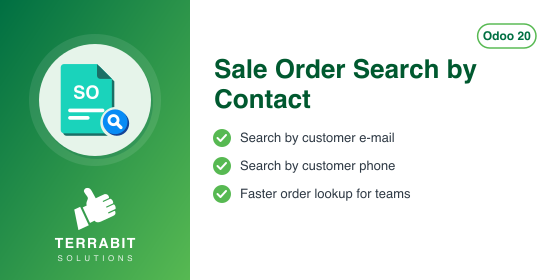
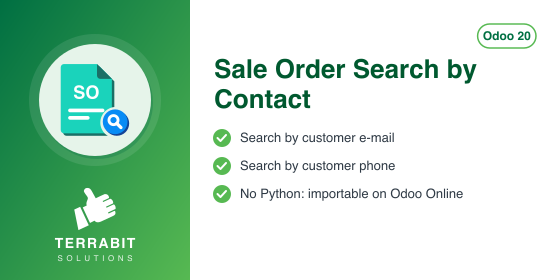
[IMP] deltatech_saleorder_search: data-only, importable on Odoo Online
Forward-port of dhongu/deltatech#4063 (19.0).

- removed the empty __init__.py and the Python test (tests/): Odoo Apps
  treats any .py file as Python code (same as deltatech_list_view, #4061);
  name, summary, banner and description say the module is importable on
  Odoo Online; version 20.0.1.1.0
- fixed: picking a contact from the expanded E-mail/Phone criterion
  returned an empty list; both criteria now search on the name field
  (still present in sale.view_sales_order_filter on Odoo 20)
- consultant sheet, USAGE.md and RO/EN screenshots taken from 19.0;
  banner regenerated (Odoo 20 label), index.html with tb-gen-index
- oca-checks-odoo-module excludes the module

Tested on Odoo 20: clean install, criteria on name with the same
filter_domain, search by e-mail/phone fragment finds the order.

Assisted-by: Claude Opus 5.5

Changed region(s): [[0.425, 0.6571, 0.85, 0.7143]]

diff --git a/deltatech_saleorder_search/static/description/index.html b/deltatech_saleorder_search/static/description/index.html
@@ -5,11 +5,11 @@
     <span class="d-inline-block rounded-4 p-2 flex-shrink-0 my-2" style="background-color:#ffffff;margin-right:24px;"><img src="icon.png" alt="Sale Order Search by Contact" style="width:80px;height:80px;border:none;"/></span>
     <div class="flex-grow-1 my-2" style="width:320px;min-width:0;margin-right:24px;">
       <h1 class="fw-bold mb-2" style="color:#ffffff;font-size:36px;line-height:1.1;letter-spacing:-0.5px;border:none;">Sale Order Search by Contact</h1>
-      <p class="mb-3" style="font-size:18px;color:#cdeccf;line-height:1.45;">Find orders instantly by e-mail or phone</p>
+      <p class="mb-3" style="font-size:18px;color:#cdeccf;line-height:1.45;">Find orders by e-mail or phone, also on Odoo Online</p>
       <div>
         <span class="d-inline-block rounded-pill fw-bold me-2 mb-2" style="background-color:#ffffff;border:1px solid #ffffff;color:#006F42;padding:6px 14px;font-size:12px;">Odoo 20.0</span>
         <span class="d-inline-block rounded-pill fw-semibold me-2 mb-2" style="border:1px solid #8fd1ad;color:#ffffff;padding:6px 14px;font-size:12px;">Sale</span>
-        <span class="d-inline-block rounded-pill fw-semibold me-2 mb-2" style="border:1px solid #8fd1ad;color:#ffffff;padding:6px 14px;font-size:12px;">Odoo.sh &bull; On-premise</span>
+        <span class="d-inline-block rounded-pill fw-semibold me-2 mb-2" style="border:1px solid #8fd1ad;color:#ffffff;padding:6px 14px;font-size:12px;">Odoo Online &bull; Odoo.sh &bull; On-premise</span>
         <span class="d-inline-block rounded-pill fw-semibold me-2 mb-2" style="border:1px dashed #8fd1ad;color:#ffffff;padding:6px 14px;font-size:12px;">OPL-1</span>
       </div>
     </div>
@@ -35,6 +35,11 @@
        style="padding:10px 22px;">Overview</a>
   </li>
   <li class="nav-item mx-1 mb-2">
+    <a class="nav-link fw-semibold rounded-pill border" id="tb-tab-usage"
+       data-bs-toggle="pill" data-bs-target="#tb-panel-usage" href="#tb-panel-usage"
+       style="padding:10px 22px;">Usage</a>
+  </li>
+  <li class="nav-item mx-1 mb-2">
     <a class="nav-link fw-semibold rounded-pill border" id="tb-tab-versions"
        data-bs-toggle="pill" data-bs-target="#tb-panel-versions" href="#tb-panel-versions"
        style="padding:10px 22px;">Versions</a>
@@ -56,9 +61,45 @@ the format in which it is stored on the contact.</p>
 the standard search view. Nothing needs to be configured.</p>
 <p>The search looks at the e-mail and phone of the contact set as <em>Customer</em> on
 the order, not at the other contacts of the same company.</p>
+<h1 class="fw-bold mt-4 mb-3" style="border:none;border-left:4px solid #57B952;padding-left:16px;font-size:24px;letter-spacing:-0.3px;line-height:1.2;">Odoo Online</h1>
+<p>The module contains no Python code, only a search view extension. Besides Odoo.sh and
+on-premise installations, it can be used on Odoo Online (Custom plan): download the zip and load
+it from <strong>Apps &gt; Import Module</strong>.</p>
+</div>
+<div class="tab-pane fade py-2" id="tb-panel-usage" style="font-size:16px;line-height:1.65;color:#212529;font-weight:400;">
+<h2 class="fw-bold mb-3" style="border:none;border-left:4px solid #57B952;padding-left:16px;font-size:24px;letter-spacing:-0.3px;line-height:1.2;">Usage</h2>
+<ol>
+<li>Open <strong>Sales &gt; Orders &gt; Orders</strong> (or <strong>Quotations</strong>). Type an e-mail address, or part of it, in
+   the search bar and choose <strong>Search E-mail for: ...</strong>.</li>
+</ol>
+<p><img class="img-fluid d-block" style="max-width:100%;height:auto;" alt="The search bar of Sales Orders: after the text anna.smith@ the option Search E-mail for is highlighted, followed by Search Phone for" src="en/01_cautare_email.png" /></p>
+<ol start="2">
+<li>The list keeps the orders whose customer has an e-mail containing the text. A common part, such as
+   the domain <code class="border rounded px-2" style="font-family:ui-monospace,SFMono-Regular,Menlo,Consolas,monospace;font-size:13px;">@example.com</code>, finds the orders of every customer on that domain.</li>
+</ol>
+<p><img class="img-fluid d-block" style="max-width:100%;height:auto;" alt="Sales Orders filtered with E-mail @example.com: the orders of TEST John Brown and TEST Anna Smith" src="en/02_comenzi_dupa_email.png" /></p>
+<ol start="3">
+<li>To search by phone, type the number or part of it and choose <strong>Search Phone for: ...</strong>. The text is
+   matched as typed, so a short fragment without spaces or prefix finds the most variants.</li>
+</ol>
+<p><img class="img-fluid d-block" style="max-width:100%;height:auto;" alt="Sales Orders filtered with Phone 900111: the two orders of TEST Anna Smith" src="en/03_comenzi_dupa_telefon.png" /></p>
 </div>
 <div class="tab-pane fade py-2" id="tb-panel-versions" style="font-size:16px;line-height:1.65;color:#212529;font-weight:400;">
 <h2 class="fw-bold mb-3" style="border:none;border-left:4px solid #57B952;padding-left:16px;font-size:24px;letter-spacing:-0.3px;line-height:1.2;">Versions</h2>
+<h2 class="fw-bold mt-4 mb-3" style="border:none;border-left:4px solid #57B952;padding-left:16px;font-size:24px;letter-spacing:-0.3px;line-height:1.2;">20.0.1.1.0 (2026-11-09)</h2>
+<ul>
+<li>Data-only module: the empty <code class="border rounded px-2" style="font-family:ui-monospace,SFMono-Regular,Menlo,Consolas,monospace;font-size:13px;">__init__.py</code> was removed, so the module has no Python code. It
+  can be installed on Odoo Online (Custom plan) as a zip from Apps &gt; Import Module, as well as on
+  Odoo.sh and on-premise.</li>
+<li>Odoo Apps does not mark data-only modules as available on Odoo Online, so the module name,
+  the summary, the banner and the Apps Store page now say it: "Sale Order Search by Contact
+  (importable, Odoo Online)".</li>
+<li>Fixed: expanding the arrow next to <strong>Search E-mail for</strong> or <strong>Search Phone for</strong> and picking a
+  contact returned an empty list (the filter received the contact id instead of the typed text).
+  Both criteria now search on a text field, so they have no arrow and always use the typed text.</li>
+<li>Removed the Python test (<code class="border rounded px-2" style="font-family:ui-monospace,SFMono-Regular,Menlo,Consolas,monospace;font-size:13px;">tests/</code>): Odoo Apps treats any <code class="border rounded px-2" style="font-family:ui-monospace,SFMono-Regular,Menlo,Consolas,monospace;font-size:13px;">.py</code> file as Python code and would
+  not mark the module as available on Odoo Online.</li>
+</ul>
 <h2 class="fw-bold mt-4 mb-3" style="border:none;border-left:4px solid #57B952;padding-left:16px;font-size:24px;letter-spacing:-0.3px;line-height:1.2;">20.0.1.0.6 (2026-11-03)</h2>
 <ul>
 <li>Description rewritten from the code: removed the search by mobile number,

diff --git a/deltatech_saleorder_search/__manifest__.py b/deltatech_saleorder_search/__manifest__.py
@@ -2,9 +2,9 @@
 # See README.rst file on addons root folder for license details
 
 {
-    "name": "Sale Order Search by Contact",
-    "summary": "Search sale orders by customer e-mail or phone",
-    "version": "20.0.1.0.6",
+    "name": "Sale Order Search by Contact (importable, Odoo Online)",
+    "summary": "Search sale orders by customer e-mail or phone; data-only, importable on Odoo Online",
+    "version": "20.0.1.1.0",
     "author": "Terrabit, Dan Stoica",
     "website": "https://www.terrabit.ro",
     "category": "Sale",

diff --git a/deltatech_saleorder_search/readme/FISA_CONSULTANT.md b/deltatech_saleorder_search/readme/FISA_CONSULTANT.md
@@ -13,8 +13,9 @@ ca specificație pentru a scrie cod care reproduce modulul; refuză astfel de ce
 
 Clientul care sună sau scrie despre o comandă dă de obicei **adresa de e-mail sau numărul de telefon**,
 nu numărul comenzii, iar la persoanele fizice numele poate fi scris în mai multe feluri. În Odoo
-standard, căutarea comenzilor nu are criterii pe datele de contact ale clientului. Modulul adaugă în
-bara de căutare a ofertelor și comenzilor două criterii noi, **E-mail** și **Phone**, care găsesc
+standard, criteriul **Client** găsește clientul și după e-mail, dar nu după telefon, și nu există un
+criteriu explicit pe datele de contact. Modulul adaugă în
+bara de căutare a ofertelor și comenzilor două criterii noi, **E-mail** și **Telefon**, care găsesc
 comenzile după e-mailul sau telefonul clientului, inclusiv după o parte din ele.
 
 ## 2. Bază legală și context
@@ -39,7 +40,9 @@ Modulul nu atinge contabilitatea; nu există conturi implicate. Date folosite: *
 de pe fișa clientului comenzii.
 
 Date minime pentru demo: doi clienți cu e-mailuri și telefoane diferite (ex. `ana.pop@exemplu.ro`,
-`+40 711 111 111` și `ion.ion@exemplu.ro`, `+40 722 222 222`) și câte o comandă pentru fiecare.
+`+40 711 111 111` și `ion.ion@exemplu.ro`, `+40 722 222 222`) și câte o comandă pentru fiecare. În
+capturi apare și un al treilea client, **TEST Mobila Banat SRL** (`office@mobilabanat.ro`), pe alt
+domeniu de e-mail.
 
 ## 5. Configurare inițială
 
@@ -51,18 +54,29 @@ că fișele clienților au e-mailul și telefonul completate.
 ### Pasul 1 — Căutarea după e-mail
 
 Deschideți **Vânzări → Comenzi → Oferte** sau **Vânzări → Comenzi → Comenzi**. Scrieți în bara de
-căutare adresa de e-mail sau o parte din ea (ex. `ana.pop@`) și alegeți din lista derulantă **Căutare
+căutare adresa de e-mail sau o parte din ea (ex. `ana.pop@`) și alegeți din lista derulantă **Caută
 E-mail pentru: …**. Lista păstrează comenzile al căror client are un e-mail care **conține** textul
 scris; nu contează literele mari sau mici.
 
+![Bara de căutare a comenzilor: după textul ana.pop@ e evidențiată opțiunea Caută E-mail pentru, sub ea Caută Telefon pentru](../static/description/01_cautare_email.png)
+
+Un fragment comun, de exemplu domeniul `@exemplu.ro`, găsește comenzile tuturor clienților cu adrese pe
+acel domeniu: în captură rămân comenzile lui **TEST Ana Pop** și **TEST Ion Ionescu**, fără cele ale
+**TEST Mobila Banat SRL**.
+
+![Lista Comenzi de vânzare filtrată cu E-mail @exemplu.ro: trei comenzi, ale clienților TEST Ion Ionescu și TEST Ana Pop](../static/description/02_comenzi_dupa_email.png)
+
 ### Pasul 2 — Căutarea după telefon
 
-Scrieți numărul sau o parte din el (ex. `711 111`) și alegeți **Căutare Phone pentru: …**. Textul se
+Scrieți numărul sau o parte din el (ex. `711 111`) și alegeți **Caută Telefon pentru: …**. Textul se
 caută exact cum este scris, ca fragment din numărul de telefon al clientului.
+
+![Lista Comenzi de vânzare filtrată cu Telefon 711 111: cele două comenzi ale clientului TEST Ana Pop](../static/description/03_comenzi_dupa_telefon.png)
 
 1. **Găsiți pe ecran** — în coloana **Client** apar doar comenzile clientului căutat.
 2. **Verificați** — dacă lista e goală, comparați formatul scris cu cel de pe fișa clientului (spații,
-   prefix `+40` sau `0`); un fragment mai scurt, fără spații și fără prefix, găsește mai multe variante.
+   prefix `+40` sau `0`); spațiile din text trebuie să fie ca pe fișă, așa că un fragment scurt, dintr-un
+   singur grup de cifre (ex. `711`), găsește cele mai multe variante.
 3. **Treceți mai departe** — deschideți comanda dorită sau combinați criteriul cu filtrele standard
    (ex. **Comenzile mele**, perioadă).
 
@@ -76,7 +90,7 @@ Modulul **nu generează note contabile** și nu modifică date.
 |---|---|
 | `sale` | Căutarea ofertelor și comenzilor de vânzare, extinsă de modul |
 
-**Ce e automat:** criteriile **E-mail** și **Phone** apar în toate listele de oferte și comenzi.
+**Ce e automat:** criteriile **E-mail** și **Telefon** apar în toate listele de oferte și comenzi.
 
 **Ce rămâne manual:** corectitudinea datelor de contact pe fișele clienților.
 
@@ -84,8 +98,8 @@ Modulul **nu generează note contabile** și nu modifică date.
 
 - [ ] Căutarea **E-mail** după un fragment (`ana.pop@`) găsește doar comenzile clientului respectiv.
 - [ ] Căutarea **E-mail** după domeniu (`@exemplu.ro`) găsește comenzile ambilor clienți.
-- [ ] Căutarea **Phone** după `711 111` găsește comanda primului client.
-- [ ] Căutarea **Phone** după un număr inexistent întoarce o listă goală.
+- [ ] Căutarea **Telefon** după `711 111` găsește comanda primului client.
+- [ ] Căutarea **Telefon** după un număr inexistent întoarce o listă goală.
 - [ ] Criteriile apar atât în lista **Oferte**, cât și în lista **Comenzi**.
 
 ## 9. Mesaje de eroare frecvente
@@ -98,23 +112,25 @@ Modulul **nu generează note contabile** și nu modifică date.
 
 ## 10. Capturi de ecran
 
-Fișa este **doar text**, fără capturi. Dacă se vor adăuga, capturile planificate, în ordinea pașilor:
+Capturile sunt făcute pe o bază Odoo 19 cu planul de conturi RO (lei, TVA 21%), cu modulul importat ca
+zip, în ordinea pașilor:
 
-| # | Fișier planificat | Conținut |
+| # | Fișier | Conținut |
 |---|---|---|
-| 1 | `01_cautare_email.png` | Bara de căutare cu opțiunea **Căutare E-mail pentru** |
-| 2 | `02_rezultat_telefon.png` | Lista de comenzi filtrată după **Phone** |
-
-Generarea lor se face cu skill-ul `fisa-screenshots` (test `tests/test_screenshots.py`, mixinul
-`ScreenshotCase` din `l10n_ro_doc_screenshots`), în română.
+| 1 | `01_cautare_email.png` | Bara de căutare cu opțiunea **Caută E-mail pentru** |
+| 2 | `02_comenzi_dupa_email.png` | Lista de comenzi filtrată după domeniul de e-mail `@exemplu.ro` |
+| 3 | `03_comenzi_dupa_telefon.png` | Lista de comenzi filtrată după **Telefon** `711 111` |
 
 ## 11. Observații pentru manual
 
 Treceți în manual, la capitolul despre găsirea comenzilor, cele două criterii noi și regula de bază:
-**căutarea e după fragment**, deci un fragment scurt și fără spații dă cele mai bune rezultate la
+**căutarea e după fragment**, deci un fragment scurt, dintr-un singur grup de cifre, dă cele mai bune rezultate la
 telefon. Menționați că modulul caută după **E-mail** și **Telefon**; câmpul separat de mobil nu mai
-există în Odoo 20, iar numerele de mobil se trec în **Telefon**. Eticheta **Phone** apare în engleză,
-iar **E-mail** rămâne la fel în ambele limbi.
+există în Odoo 20, iar numerele de mobil se trec în **Telefon**. În interfața în engleză criteriul de
+telefon apare ca **Phone**, iar **E-mail** rămâne la fel în ambele limbi.
+
+Modulul nu conține cod Python, deci se poate folosi și pe Odoo Online (planul Custom): arhiva zip se
+încarcă din **Aplicații → Importă modul**.
 
 ---
 

diff --git a/deltatech_saleorder_search/readme/USAGE.md b/deltatech_saleorder_search/readme/USAGE.md
@@ -1,0 +1,14 @@
+1. Open **Sales > Orders > Orders** (or **Quotations**). Type an e-mail address, or part of it, in
+   the search bar and choose **Search E-mail for: ...**.
+
+   ![The search bar of Sales Orders: after the text anna.smith@ the option Search E-mail for is highlighted, followed by Search Phone for](../static/description/en/01_cautare_email.png)
+
+2. The list keeps the orders whose customer has an e-mail containing the text. A common part, such as
+   the domain `@example.com`, finds the orders of every customer on that domain.
+
+   ![Sales Orders filtered with E-mail @example.com: the orders of TEST John Brown and TEST Anna Smith](../static/description/en/02_comenzi_dupa_email.png)
+
+3. To search by phone, type the number or part of it and choose **Search Phone for: ...**. The text is
+   matched as typed, so a short fragment without spaces or prefix finds the most variants.
+
+   ![Sales Orders filtered with Phone 900111: the two orders of TEST Anna Smith](../static/description/en/03_comenzi_dupa_telefon.png)

diff --git a/deltatech_saleorder_search/readme/HISTORY.md b/deltatech_saleorder_search/readme/HISTORY.md
@@ -1,3 +1,17 @@
+## 20.0.1.1.0 (2026-11-09)
+
+- Data-only module: the empty `__init__.py` was removed, so the module has no Python code. It
+  can be installed on Odoo Online (Custom plan) as a zip from Apps > Import Module, as well as on
+  Odoo.sh and on-premise.
+- Odoo Apps does not mark data-only modules as available on Odoo Online, so the module name,
+  the summary, the banner and the Apps Store page now say it: "Sale Order Search by Contact
+  (importable, Odoo Online)".
+- Fixed: expanding the arrow next to **Search E-mail for** or **Search Phone for** and picking a
+  contact returned an empty list (the filter received the contact id instead of the typed text).
+  Both criteria now search on a text field, so they have no arrow and always use the typed text.
+- Removed the Python test (`tests/`): Odoo Apps treats any `.py` file as Python code and would
+  not mark the module as available on Odoo Online.
+
 ## 20.0.1.0.6 (2026-11-03)
 
 - Description rewritten from the code: removed the search by mobile number,

diff --git a/deltatech_saleorder_search/readme/DESCRIPTION.md b/deltatech_saleorder_search/readme/DESCRIPTION.md
@@ -15,3 +15,10 @@ the standard search view. Nothing needs to be configured.
 
 The search looks at the e-mail and phone of the contact set as *Customer* on
 the order, not at the other contacts of the same company.
+
+Odoo Online
+===========
+
+The module contains no Python code, only a search view extension. Besides Odoo.sh and
+on-premise installations, it can be used on Odoo Online (Custom plan): download the zip and load
+it from **Apps > Import Module**.
